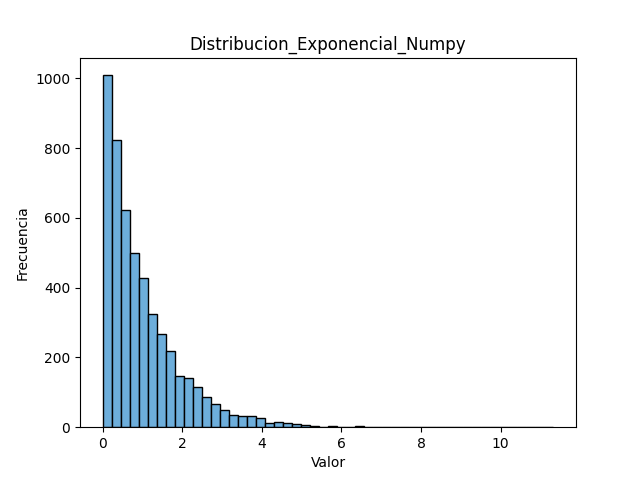
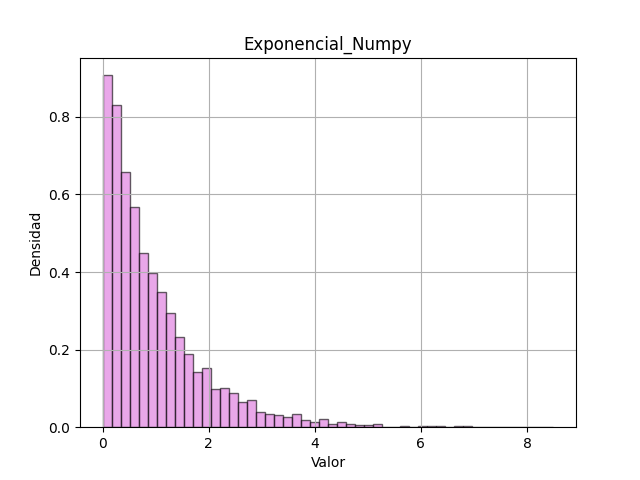
Cambios en el Código

diff --git a/TP 2.2/distribuciones.py b/TP 2.2/distribuciones.py
@@ -1,174 +1,112 @@
-""" 
-  Distribuciones a desarrollar
-  - Uniforme
-  - Exponencial
-  - Gamma
-  - Normal
-  - Pascal
-  - Binomial
-  - Hipergeometrica
-  - Poisson
-  - Empirica Discreta 
+"""
+Distribuciones a desarrollar y testear:
+- Uniforme
+- Exponencial
+- Gamma
+- Normal
+- Pascal (Binomial Negativa)
+- Binomial
+- Hipergeométrica
+- Poisson
+- Empírica Discreta
 """
 
 import random
+import numpy as np
+import matplotlib.pyplot as plt
 from math import log, exp
 from functools import partial
-import numpy as np
 from typing import Callable
-import matplotlib.pyplot as plt
 
+#Generadores Manuales
 def uniforme(a, b):
-  r = random.random()
-  x = a + (b - a) * r
-  return x
+    r = random.random()
+    return a + (b - a) * r
 
-def exponencial(alfa):  #en el libro alfa es EX (que seria?)
-  r = random.random()
-  x = -alfa * log(r)
-  return x
+def exponencial(alfa):
+    r = random.random()
+    return -alfa * log(r)
 
 def gamma(k, alfa):
-  tr = 0.1  #en el libro dice 1.0
-  for i in range(k):
-    r = random.random()
-    tr = tr * r
-  x = -log(tr) / alfa
-  return x
+    tr = 1.0
+    for _ in range(k):
+        tr *= random.random()
+    return -log(tr) / alfa
 
-def normal ( ex, stdx ):
-  sum = 0.0
-  for i in range (12): # el libro pide 12 pero por que ese valor
-    r = random.random()
-    sum = sum + r
-  x = stdx *(sum - 6.0) + ex
-  return x
+def normal(ex, stdx):
+    sum_r = sum(random.random() for _ in range(12))
+    return stdx * (sum_r - 6.0) + ex
 
-def pascal(k ,q):
-  tr = 1.0
-  qr = log(q)
-  for i in range(k):
-    r = random.random()
-    tr = tr * r
-  nx = log(tr) / qr
-  return nx
+def pascal(k, q):
+    tr = 1.0
+    for _ in range(k):
+        tr *= random.random()
+    return log(tr) / log(q)
 
 def binomial(n, p):
-  x = 0.0
-  for i in range(n):
-    r = random.random()
-    if r < p:
-      x = x + 1.0
-  return x
+    return sum(1 for _ in range(n) if random.random() < p)
 
 def hipergeometrica(tn, ns, p):
-  x = 0.0
-  for i in range(ns):
+    x = 0
+    for _ in range(ns):
+        r = random.random()
+        s = 1 if r < p else 0
+        x += s
+        p = (tn * p - s) / (tn - 1)
+        tn -= 1
+    return x
+
+def poisson(lam):
+    x = 0
+    b = exp(-lam)
+    tr = 1.0
+    while tr > b:
+        tr *= random.random()
+        x += 1
+    return x - 1
+
+def empirica_discreta(valores, probas):
     r = random.random()
-    if r < p:
-      s = 1.0
-      x = x + 1.0
-    else:
-      s = 0.0
-    p = (tn * p - s) / (tn - 1.0)
-    tn = tn - 1.0
-  return x
+    acumulada = 0.0
+    for v, p in zip(valores, probas):
+        acumulada += p
+        if r < acumulada:
+            return v
+    return valores[-1]
 
-def poisson(p):
-  x = 0.0
-  b = exp(-p)
-  tr = 1.0
-  r = random.random()
-  tr = tr * r
-  while (tr > b):
-    x= x + 1.0
-    r = random.random()
-    tr = tr * r
-  return x
+def graficar(f: Callable, *args, nombre="Distribucion", bins=50):
+    datos = [f(*args) for _ in range(5000)]
+    plt.hist(datos, bins=bins, density=True, alpha=0.6, color="#DB6DDB", edgecolor='black')
+    plt.title(nombre)
+    plt.xlabel('Valor')
+    plt.ylabel('Densidad')
+    plt.grid(True)
 
-def empirica_discreta(m, n, i, p): #en donde p es una matriz 10x10, x es una lista de 10 elementos
-  x = []
-  for k in range(m):
-    x.append(0.0)
-  for k in range(n):
-    r = random.random()
-    for j in range(m):
-      if (p[i][j] > r):
-        break
-    i = j
-    x[i] = x[i] + 1.0
-  return x
-
-def graficar(f : Callable, *args):
-  y = []
-  for i in range(5000):
-    y.append(f(*args))
-  y.sort()
-
-  plt.hist(y, bins=50, color='#6DAEDB', edgecolor='black')
-  plt.title(f"Distribucion_{nombre_funcion}")
-  plt.xlabel('Valor')
-  plt.ylabel('Frecuencia')
-  plt.savefig(f"./TP 2.2/Distribucion_{nombre_funcion}.png")
-  plt.clf()
+    ruta = f"Distribucion_{nombre}.png"
+    plt.savefig(ruta)
+    print(f"Gráfico guardado en: {ruta}")
+    plt.clf()
 
 if __name__ == "__main__":
 
-  # Distribuciones con los generadores de numpy
+    # Numpy
+    graficar(np.random.uniform, 0, 1, nombre="Uniforme_Numpy")
+    graficar(np.random.exponential, 1, nombre="Exponencial_Numpy")
+    graficar(np.random.gamma, 1, 1, nombre="Gamma_Numpy")
+    graficar(np.random.normal, 0, 1, nombre="Normal_Numpy")
+    graficar(np.random.negative_binomial, 1, 0.5, nombre="Pascal_Numpy")
+    graficar(np.random.binomial, 10, 0.5, nombre="Binomial_Numpy")
+    graficar(np.random.hypergeometric, 10, 5, 5, nombre="Hipergeometrica_Numpy")
+    graficar(np.random.poisson, 1, nombre="Poisson_Numpy")
+    graficar(partial(np.random.choice, [0, 1, 2, 3, 4], p=[0.1, 0.2, 0.3, 0.2, 0.2]), nombre="Empirica_Discreta_Numpy")
 
-  nombre_funcion = "Uniforme_Numpy"
-  graficar(partial(np.random.uniform, 0, 1))
-  
-
-  nombre_funcion = "Exponencial_Numpy"
-  graficar(partial(np.random.exponential, 1))
-
-  nombre_funcion = "Gamma_Numpy"
-  graficar(partial(np.random.gamma, 1, 1)) # mismo comportamiento que la exponencial
-
-  nombre_funcion = "Normal_Numpy"
-  graficar(partial(np.random.normal, 0, 1))
-
-  nombre_funcion = "Pascal_Numpy"
-  graficar(partial(np.random.negative_binomial, 1, 0.5)) # no se si es correcto
-
-  nombre_funcion = "Binomial_Numpy"
-  graficar(partial(np.random.binomial, 10, 0.5))
-
-  nombre_funcion = "Hipergeometrica_Numpy"
-  graficar(partial(np.random.hypergeometric, 10, 5, 5)) # parecido a la binomial
-
-  nombre_funcion = "Poisson_Numpy"
-  graficar(partial(np.random.poisson, 1))
-
-  nombre_funcion = "Empirica Discreta_Numpy"
-  graficar(partial(np.random.choice, [0, 1, 2, 3, 4], p=[0.1, 0.2, 0.3, 0.2, 0.2])) # esto ni idea
-
-  # Distribuciones con los generadores programados
-
-  nombre_funcion = "Uniforme"
-  graficar(partial(uniforme, 0, 1))
-
-  nombre_funcion = "Exponencial"
-  graficar(partial(exponencial, 1))
-
-  nombre_funcion = "Gamma"
-  graficar(partial(gamma, 1, 1))
-
-  nombre_funcion = "Normal"
-  graficar(partial(normal, 0, 1))
-
-  nombre_funcion = "Pascal"
-  graficar(partial(pascal, 1, 0.5)) # se ve distinta a la de numpy
-
-  nombre_funcion = "Binomial"
-  graficar(partial(binomial, 10, 0.5))
-
-  nombre_funcion = "Hipergeometrica"
-  graficar(partial(hipergeometrica, 10, 5, 5)) # se ve distinta a la de numpy
-
-  nombre_funcion = "Poisson"
-  graficar(partial(poisson, 1))
-
-  nombre_funcion = "Empirica Discreta"
-  graficar(partial(empirica_discreta, [0, 1, 2, 3, 4], p=[0.1, 0.2, 0.3, 0.2, 0.2])) # esta falla, se tienen que arreglar los argumentos
+    # Manuales
+    graficar(uniforme, 0, 1, nombre="Uniforme")
+    graficar(exponencial, 1, nombre="Exponencial")
+    graficar(gamma, 2, 1, nombre="Gamma")
+    graficar(normal, 0, 1, nombre="Normal")
+    graficar(pascal, 2, 0.5, nombre="Pascal")
+    graficar(binomial, 10, 0.5, nombre="Binomial")
+    graficar(hipergeometrica, 20, 5, 0.5, nombre="Hipergeometrica")
+    graficar(poisson, 1, nombre="Poisson")
+    graficar(empirica_discreta, [0, 1, 2, 3, 4], [0.1, 0.2, 0.3, 0.2, 0.2], nombre="Empirica_Discreta")
